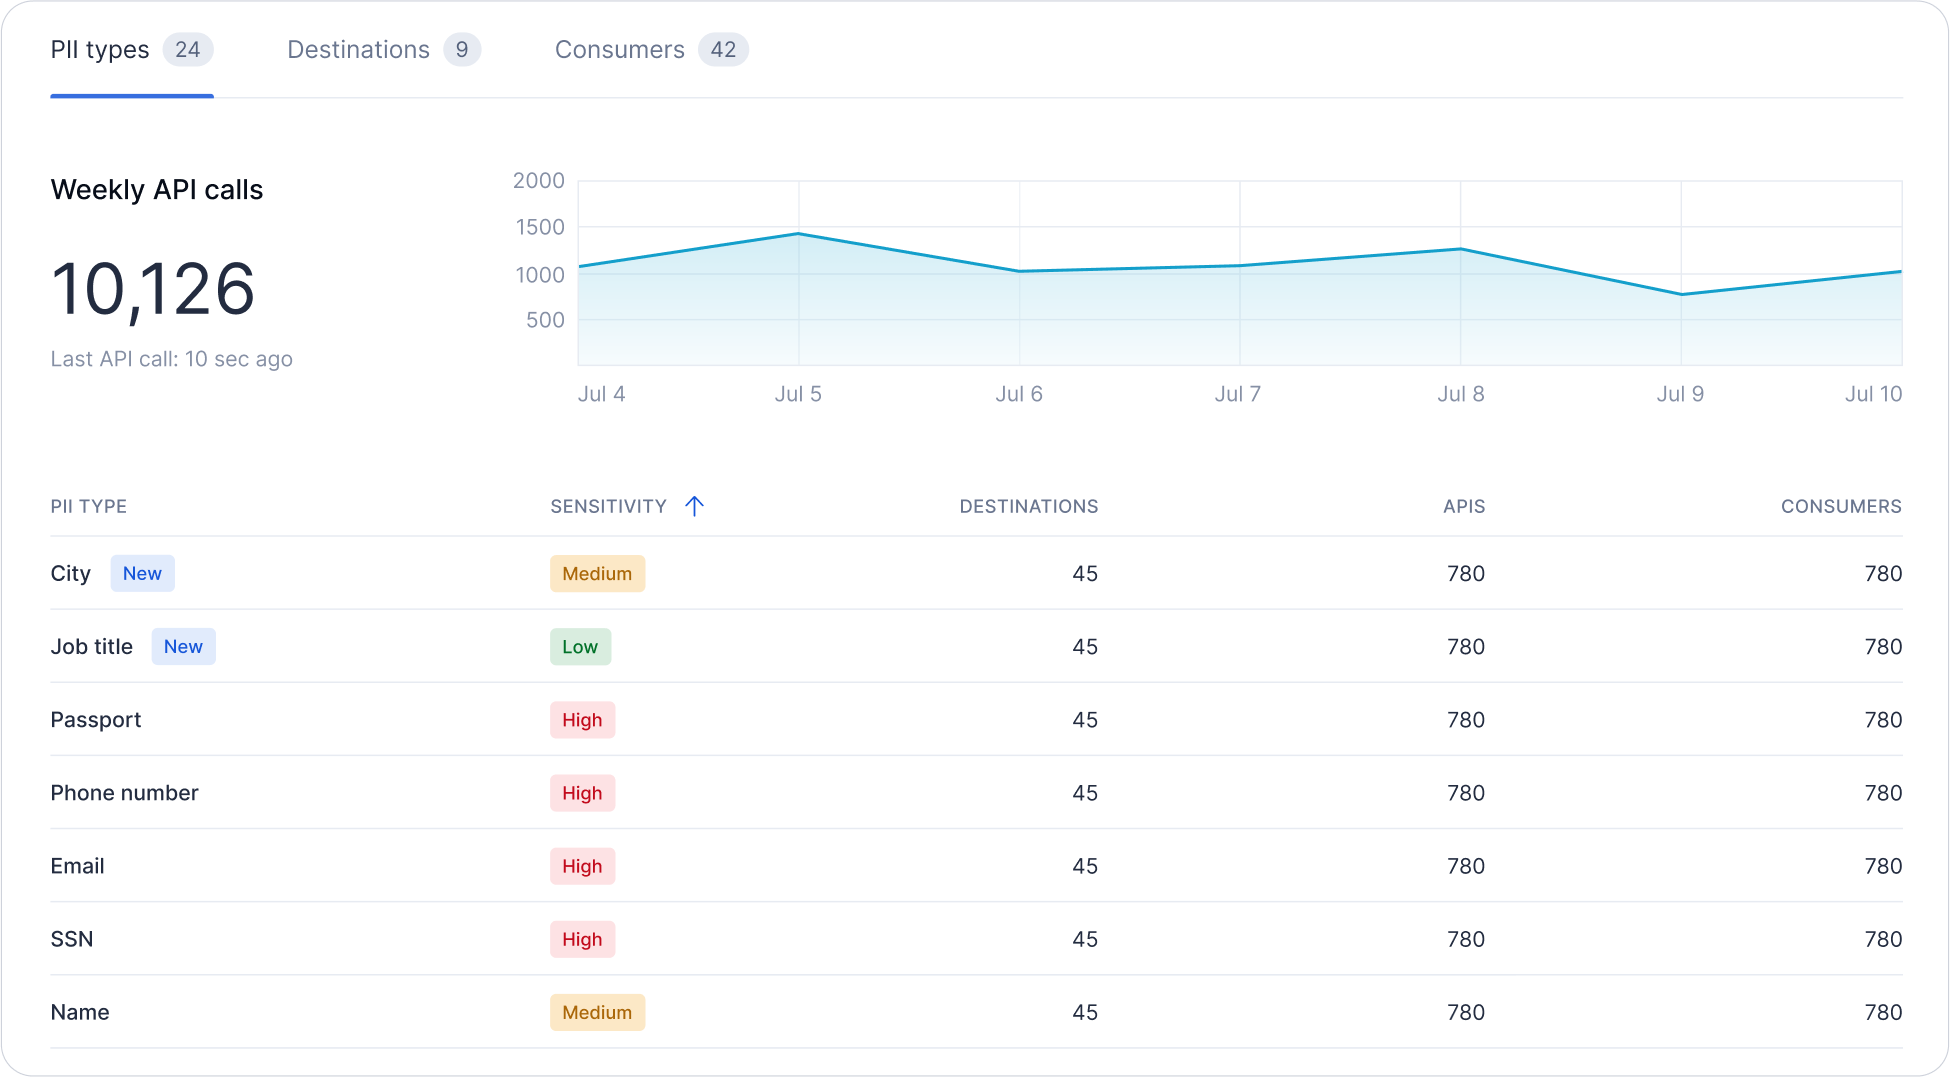
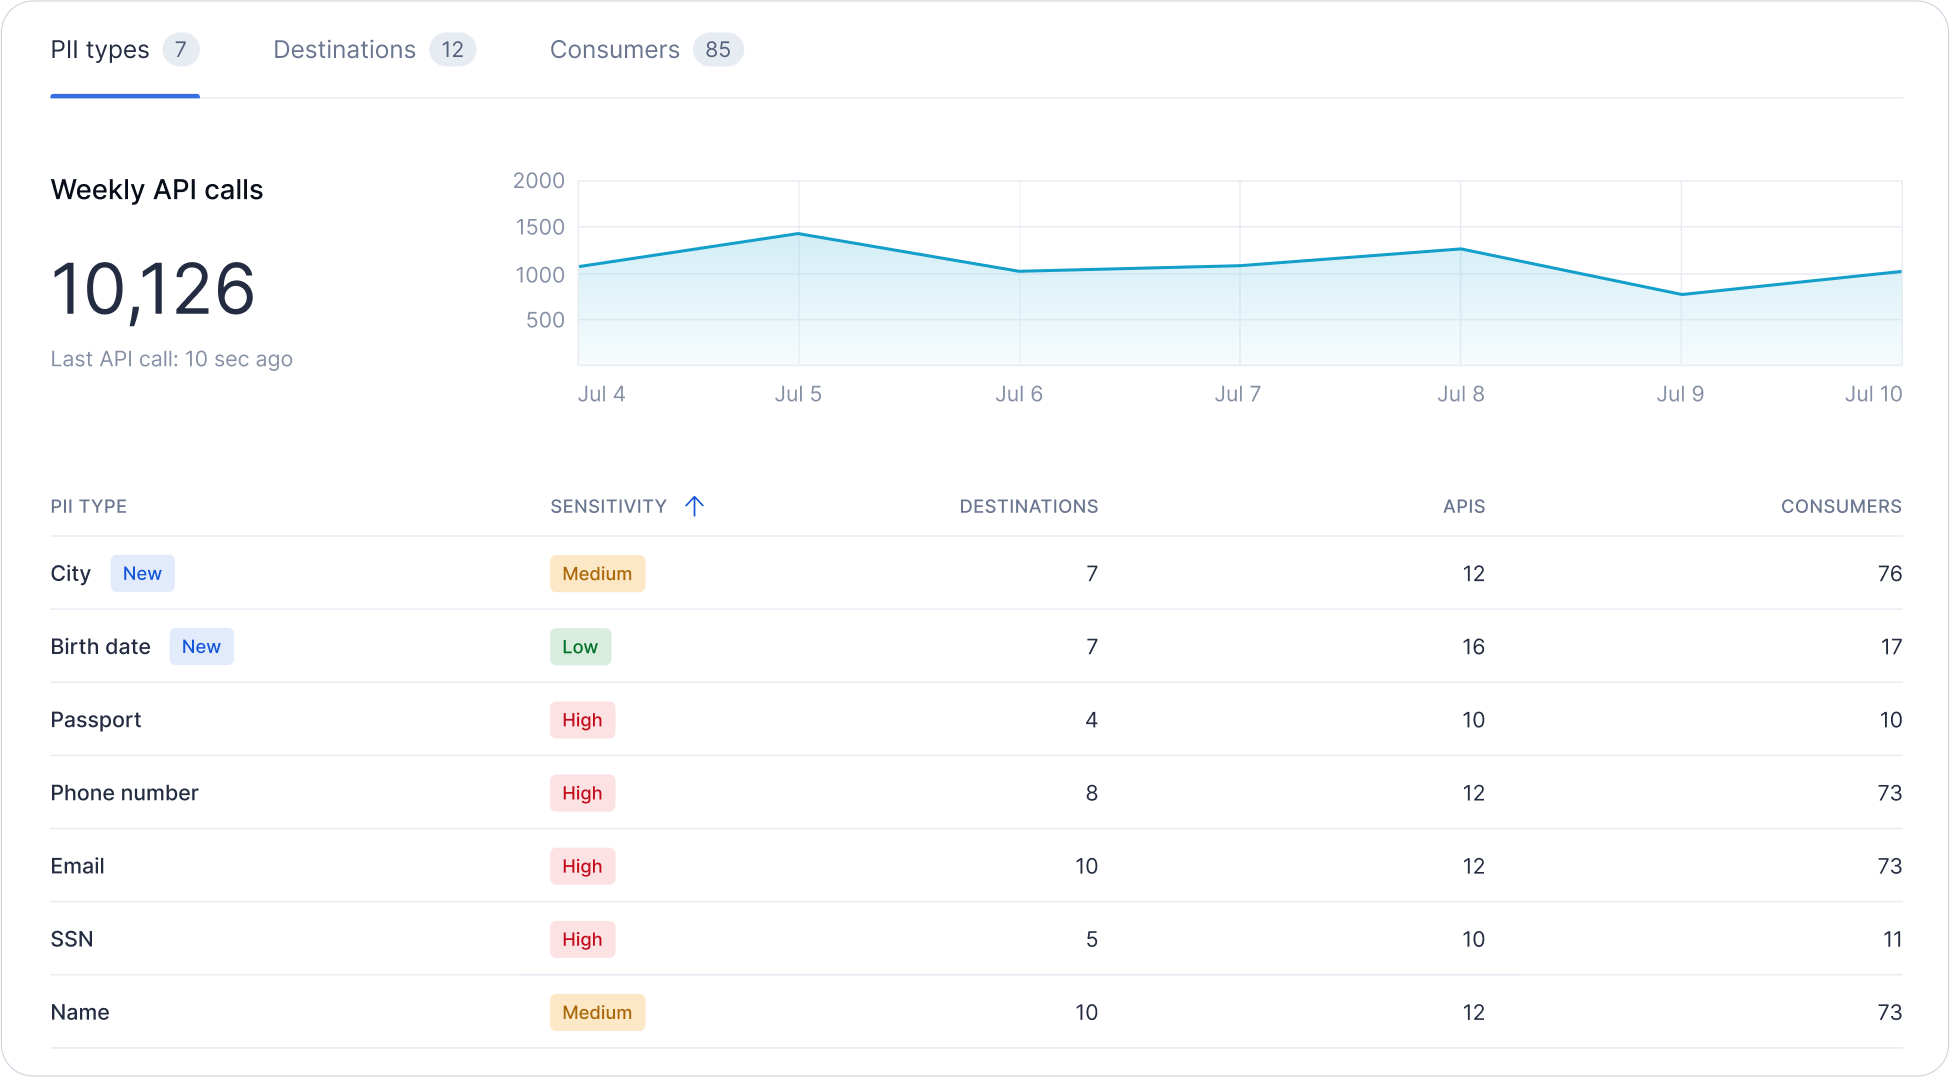
update pii-types-overview-cropped.png and change date of birth to birth date to synch with the codebase

diff --git a/docs/dashboards/pii-model.md b/docs/dashboards/pii-model.md
@@ -8,7 +8,7 @@ Currently, Soveren dashboards show you the following types of PII:
     * First name
     * Last name
     * Middle name (if any)
-    * Date of birth
+    * Birth date
     * Gender
 * National IDs
     * Driver's license
